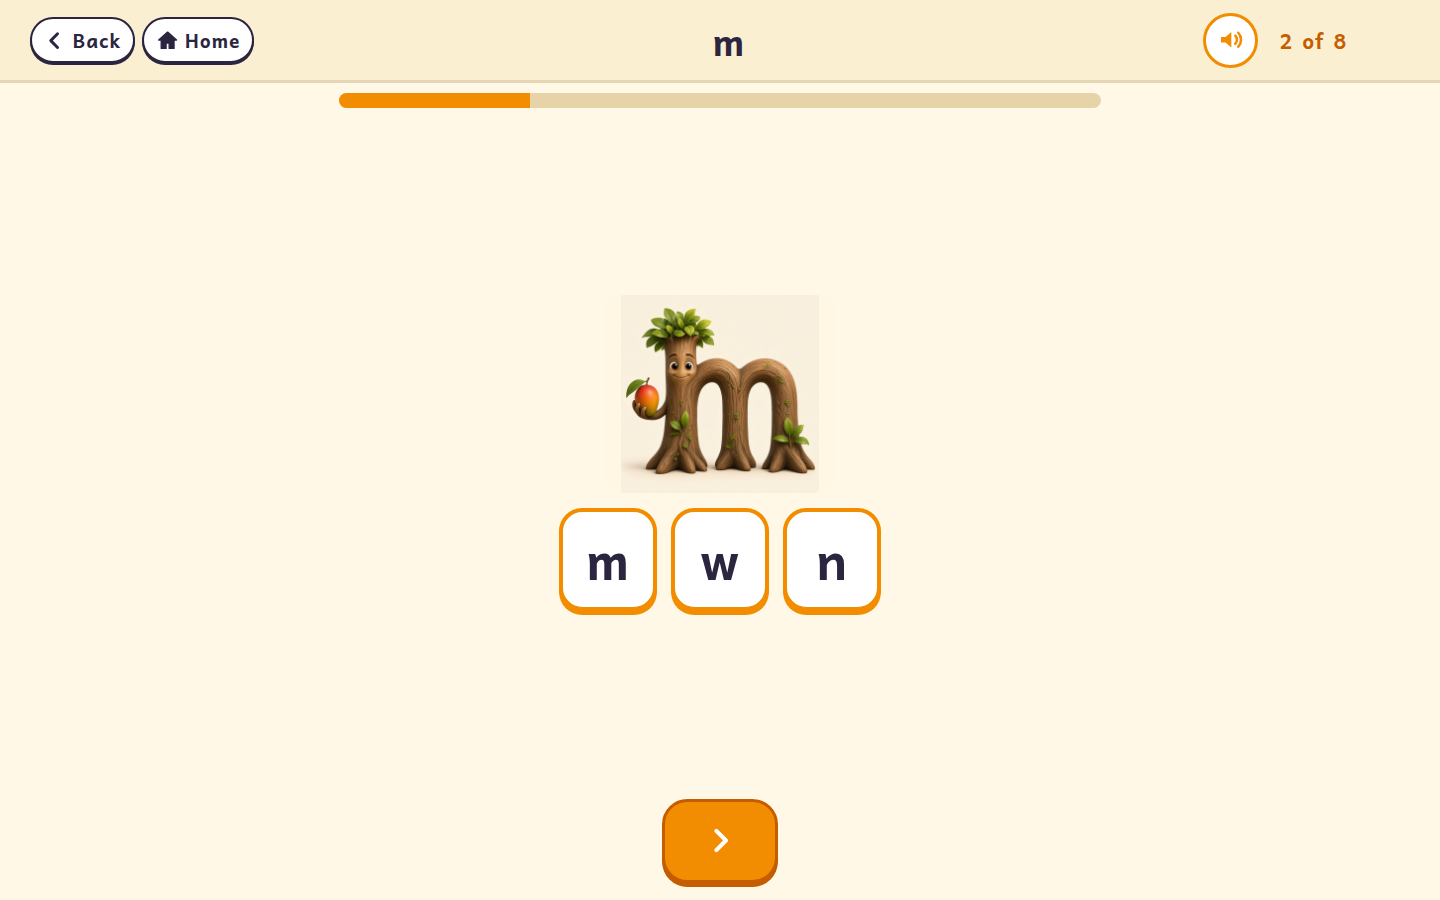
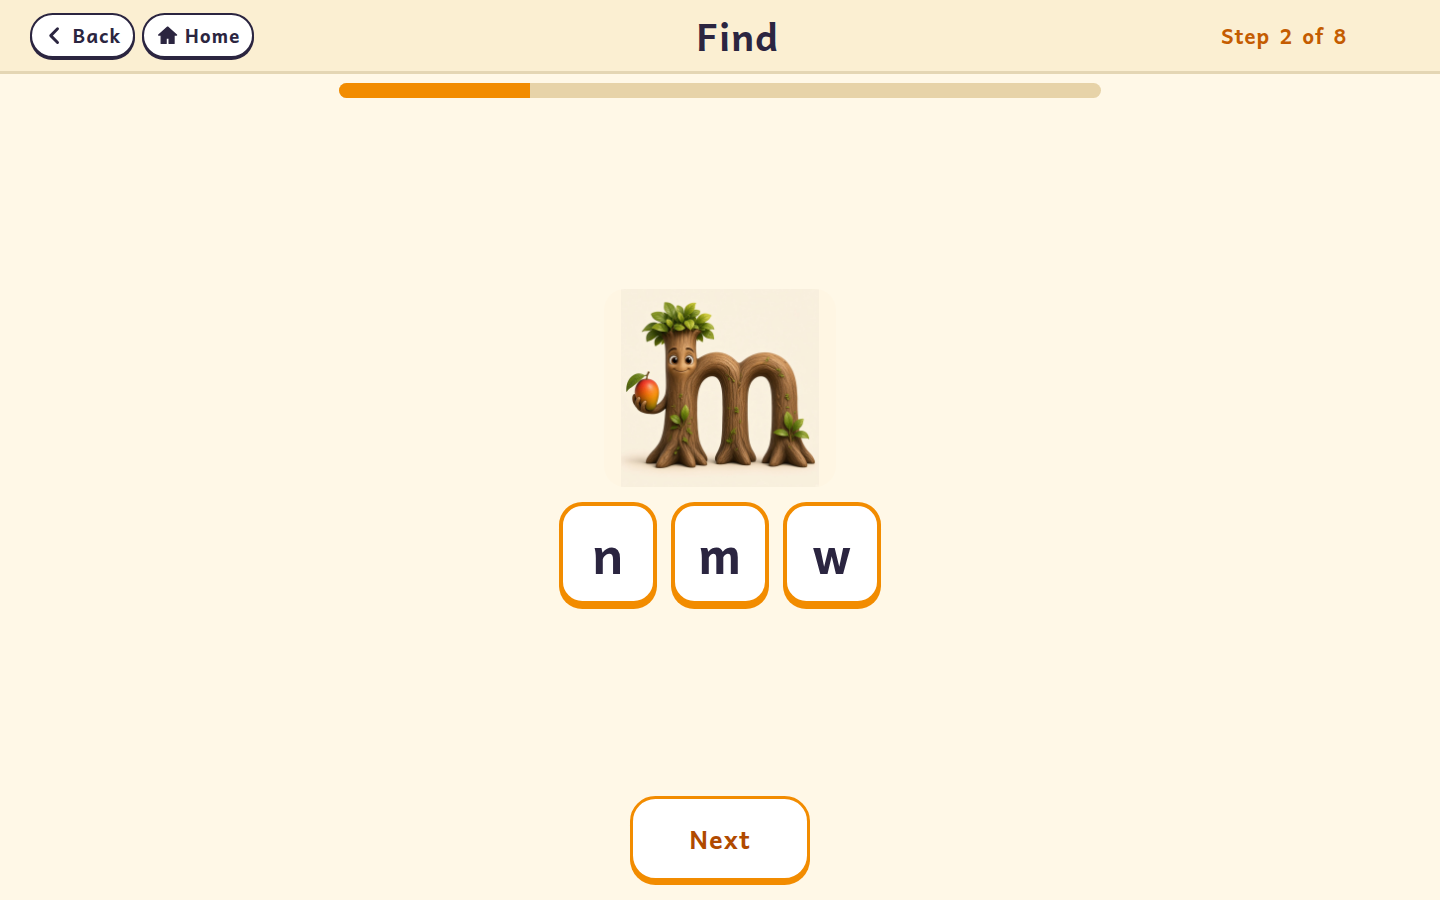
Make Foundations navigation the same on every screen.
Back and Home stay in one header. Lessons say Step X of N, use a short step name, and keep Next as the forward button. It turns orange when the step is ready.

diff --git a/js/foundation/letters.js b/js/foundation/letters.js
@@ -808,7 +808,7 @@
         h('b', { class: 'tname' }, game.title),
         game.done ? h('span', { class: 'llcardone' }, icon('check'), 'Done') : null))));
     app.append(h('div', { class: 'screen fs-team' },
-      h('header', { class: 'uA-top' },
+      h('header', { class: 'uA-top llbar' },
         IR.ui.pageNav('#/foundation/letters/' + group.id),
         h('h1', { class: 'uA-title' }, 'Games')),
       h('main', { class: 'fs-teammain' }, h('ol', { class: 'll-lessongrid ll-gamegrid' }, ...cards))));
@@ -1713,14 +1713,14 @@
     v: 'foundation/img/letters/v_vida_vine.jpg', z: 'foundation/img/letters/z_zuzu_zigzag_cloud.jpg'
   };
   const KID_STEPS = [
-    { id: 'hear', say: 'Tap the sound.' },
-    { id: 'find', say: 'Tap the letter.' },
-    { id: 'play', say: 'Pick a game.' },
-    { id: 'blend', say: 'Tap the letters.' },
-    { id: 'trace', say: 'Trace the letter.' },
-    { id: 'read', say: 'Tap a word.' },
-    { id: 'check', say: 'Tap the letter.' },
-    { id: 'done', say: 'You did it.' }
+    { id: 'hear', say: 'Tap the sound.', label: 'Hear' },
+    { id: 'find', say: 'Tap the letter.', label: 'Find' },
+    { id: 'play', say: 'Pick a game.', label: 'Play' },
+    { id: 'blend', say: 'Tap the letters.', label: 'Blend' },
+    { id: 'trace', say: 'Trace the letter.', label: 'Trace' },
+    { id: 'read', say: 'Tap a word.', label: 'Read' },
+    { id: 'check', say: 'Tap the letter.', label: 'Check' },
+    { id: 'done', say: 'You did it.', label: 'Done' }
   ];
   function letterArt(id) { return artUrl(id) || ART_FILE[id] || ''; }
   function pureSound(L) {
@@ -1821,7 +1821,8 @@
       words: [],
       foils: foilIds(id, ids),
       roundN: 4,
-      nextLabel: 'Back to the lesson',
+      lesson: true,
+      nextLabel: 'Next',
       after: '#/foundation/letters/' + group.id + '/lesson/' + id + '/play',
       onDone(gameId) {
         const map = playNote(group, id);
@@ -1892,12 +1893,13 @@
     }
     show();
   }
-  function paintPlay(stage, group, id) {
+  function paintPlay(stage, group, id, ready) {
     const played = playNote(group, id);
     const games = [{ id: 'pop', title: 'Sound Pop' }, { id: 'hunt', title: 'Letter Hunt' }];
+    const nextGame = games.filter((game) => !played[game.id])[0];
     const back = '#/foundation/letters/' + group.id + '/lesson/' + id + '/play';
     stage.append(h('div', { class: 'llkidgames' }, ...games.map((game) => h('button', {
-      class: 'tcard llkidgame' + (played[game.id] ? ' is-done' : ''),
+      class: 'tcard llkidgame' + (played[game.id] ? ' is-done' : '') + (nextGame && nextGame.id === game.id ? ' t-current' : ''),
       type: 'button',
       'aria-label': game.title,
       onclick: () => {
@@ -1906,6 +1908,7 @@
         IR.day1Play(root, game.id, lessonPack(group, id), back);
       }
     }, h('b', null, game.title), played[game.id] ? h('span', { class: 'llcardone' }, icon('check'), 'Done') : null))));
+    if (!nextGame) ready();
   }
   function paintBlend(stage, group, id, ready) {
     const words = lessonWordList(group, id);
@@ -2092,36 +2095,35 @@
     const index = KID_STEPS.indexOf(step);
     const base = '#/foundation/letters/' + group.id;
     const stage = h('main', { class: 'llkidstage' });
-    const next = h('button', { class: 'btn big next llkidnext', type: 'button', 'aria-label': 'Next' }, icon('next'));
+    const last = index >= KID_STEPS.length - 1;
+    const next = h('button', { class: 'btn big llkidnext', type: 'button', 'aria-label': last ? 'Done' : 'Next' }, last ? 'Done' : 'Next');
     function ready() { next.classList.add('ready'); }
     function go() {
       Snd.stop();
       try { speechSynthesis.cancel(); } catch (e) { /* quiet */ }
-      if (index >= KID_STEPS.length - 1) { location.hash = base; return; }
+      if (last) { location.hash = base; return; }
       location.hash = base + '/lesson/' + id + '/' + KID_STEPS[index + 1].id;
     }
     next.addEventListener('click', go);
     if (step.id === 'hear') paintHear(stage, L, ready);
     else if (step.id === 'find') paintFind(stage, group, id, ready);
-    else if (step.id === 'play') paintPlay(stage, group, id);
+    else if (step.id === 'play') paintPlay(stage, group, id, ready);
     else if (step.id === 'blend') paintBlend(stage, group, id, ready);
     else if (step.id === 'trace') paintTrace(stage, L, ready);
     else if (step.id === 'read') paintRead(stage, group, id, ready);
     else if (step.id === 'check') paintCheck(stage, group, id, ready);
     else paintCelebrate(stage, group, id);
-    const say = step.id === 'hear' ? null : h('button', { class: 'llkidhear', type: 'button', 'aria-label': 'Hear it', onclick: () => speak(step.say) }, icon('speaker'));
     app.append(h('div', { class: 'screen llkid' },
-      h('header', { class: 'uA-top' },
+      h('header', { class: 'uA-top llbar' },
         IR.ui.pageNav(base),
-        h('h1', { class: 'uA-title' }, id),
-        say,
-        h('p', { class: 'llkidprog' }, (index + 1) + ' of ' + KID_STEPS.length)),
+        h('h1', { class: 'uA-title' }, step.label),
+        h('p', { class: 'llkidprog' }, 'Step ' + (index + 1) + ' of ' + KID_STEPS.length)),
       h('div', { class: 'llkidbar', role: 'progressbar', 'aria-valuemin': 1, 'aria-valuemax': KID_STEPS.length, 'aria-valuenow': index + 1 },
         h('i', { style: 'width:' + Math.round((index + 1) / KID_STEPS.length * 100) + '%' })),
       stage,
       h('div', { class: 'llkidnav' }, next)));
     speak(step.say);
-    if (step.id === 'play' || step.id === 'done') ready();
+    if (step.id === 'done') ready();
   }
   function groupPage(app, group) {
     IR.newScreen();
@@ -2154,7 +2156,7 @@
       onclick: () => { Snd.stop(); location.hash = base + '/games'; }
     }, h('span', { class: 'tbody' }, h('b', { class: 'tname' }, 'Games'))));
     app.append(h('div', { class: 'screen fs-team' },
-      h('header', { class: 'uA-top' },
+      h('header', { class: 'uA-top llbar' },
         IR.ui.pageNav('#/foundation'),
         h('h1', { class: 'uA-title' }, 'Team ' + group.n)),
       h('main', { class: 'fs-teammain' },
@@ -2186,11 +2188,13 @@
         h('span', { class: 'tbody' },
           h('span', { class: 'thead' }, h('b', { class: 'tnum' }, 'Team ' + group.n)),
           h('span', { class: 'tname llteamlets' }, ...group.letters.map((ch) => h('span', null, ch))),
-          done ? h('span', { class: 'llcardone' }, icon('check'), 'Done') : null));
+          done ? h('span', { class: 'llcardone' }, icon('check'), 'Done') : (isNext ? h('span', { class: 'llup' }, 'Up next') : null)));
     });
-    app.append(h('div', { class: 'screen home mapscreen gridhome fs-home fs-teams' },
-      h('div', { class: 'mwrap' },
-        h('header', { class: 'hbanner' }, IR.ui.pageNav('#/home'), h('h1', null, 'Foundation Skills')),
+    app.append(h('div', { class: 'screen fs-team fs-teams fs-home' },
+      h('header', { class: 'uA-top llbar' },
+        IR.ui.pageNav('#/home'),
+        h('h1', { class: 'uA-title' }, 'Foundation Skills')),
+      h('main', { class: 'fs-teammain' },
         h('div', { class: 'bellslot' }, h('div', { class: 'bellpath' }, h('div', { class: 'bellgrid fs-teamgrid' }, ...cards))))));
     if (COVER_SRC && COVER_NOTE) { /* art stays in the program; the team cards are the page */ }
   }

diff --git a/js/foundation/day1.js b/js/foundation/day1.js
@@ -77,6 +77,7 @@
 
   function shell(title, back) {
     const scr = IR.newScreen();
+    const lesson = PACK && PACK.lesson;
     const fill = h('i');
     const bar = h('div', { class: 'pbar ll1bar', role: 'progressbar', 'aria-valuemin': 0, 'aria-valuemax': 100, 'aria-valuenow': 0 }, fill);
     const instr = h('div', { class: 'instr' });
@@ -84,17 +85,20 @@
     const topNav = IR.ui && IR.ui.pageNav
       ? IR.ui.pageNav(() => { clearWait(); location.hash = back; })
       : h('button', { class: 'xbtn', type: 'button', 'aria-label': 'Back', onclick: () => { clearWait(); Snd.stop(); location.hash = back; } }, icon('close'));
-    const screen = h('div', { class: 'screen lessonscreen u5step ll-day1' },
-      h('header', { class: 'lesson-top ll1top' },
+    const roundEl = h('p', { class: lesson ? 'llkidprog' : 'qcount llround', 'aria-live': 'polite' }, '');
+    const header = lesson
+      ? h('header', { class: 'uA-top llbar' }, topNav, h('h1', { class: 'uA-title' }, title), roundEl)
+      : h('header', { class: 'lesson-top ll1top' },
         topNav,
         h('h1', null, title),
         h('span', { class: 'll1faces' },
           h('img', { class: 'll1face', src: ZIP, alt: 'Zip' }),
-          h('img', { class: 'll1face', src: FRILL, alt: 'Frill' }))),
-      h('p', { class: 'qcount llround', 'aria-live': 'polite' }, ''),
+          h('img', { class: 'll1face', src: FRILL, alt: 'Frill' })));
+    const screen = h('div', { class: lesson ? 'screen fs-team ll-day1 ll-lessonplay' : 'screen lessonscreen u5step ll-day1' },
+      header,
+      lesson ? null : roundEl,
       instr, stage,
       h('div', { class: 'll1foot' }, bar));
-    const roundEl = screen.querySelector('.llround');
     const ctx = {
       scr: scr,
       stage: stage,
@@ -112,6 +116,7 @@
       setInstr(text) {
         instr.innerHTML = '';
         if (!text) return;
+        if (PACK && PACK.lesson) { say(text); return; }
         instr.append(speakerBtn(() => say(text), 'Hear the directions'), h('span', { class: 'itext' }, text));
         say(text);
       },
@@ -119,6 +124,11 @@
         ctx.progress(1);
         if (PACK.onDone) PACK.onDone(again);
         IR.touchStreak();
+        if (PACK && PACK.lesson && PACK.after) {
+          Snd.play(A.sfx.done);
+          location.hash = PACK.after;
+          return;
+        }
         const team = /^#\/foundation\/letters\/g(\d+)/.exec(back || '');
         const done = IR.engage.endScreen({
           title: label,
@@ -140,6 +150,7 @@
         done.classList.add('ll1end');
         const againBtn = done.querySelector('.menulink');
         if (againBtn) { againBtn.classList.remove('menulink'); againBtn.classList.add('btn', 'big', 'llagain'); }
+        if (PACK && PACK.lesson && againBtn) againBtn.remove();
         document.querySelector('#app').append(done);
         Snd.play(A.sfx.done);
       }

diff --git a/foundation/foundation.css b/foundation/foundation.css
@@ -402,7 +402,16 @@ html.teach .llist .u5name,html.teach .llplay .u5name{font-size:32px}
 .ll-lessoncard .herechip{position:absolute;left:.55rem;top:.55rem}
 .llkid{height:100dvh;max-height:100dvh;overflow:hidden;display:flex;flex-direction:column;align-items:center;background:var(--cream);font-family:Andika,sans-serif}
 .llkid .uA-top{width:100%}
-.llkidprog{margin:0;font-weight:700;color:#C45C00}
+.llbar{width:100%;box-sizing:border-box;flex-wrap:nowrap}
+.llbar .uA-title{flex:1;text-align:center;white-space:nowrap}
+.llkidprog{margin:0;flex:none;white-space:nowrap;font-weight:700;color:#C45C00}
+.llkidnext{min-width:8.5rem;justify-content:center;text-align:center;background:#fff;color:#B04A00;border:3px solid #F28C00;box-shadow:0 4px 0 #F28C00}
+.llkidnext.ready{background:#F28C00;color:#fff;box-shadow:0 0 0 4px rgba(242,140,0,.28),0 4px 0 #C45C00}
+@media (max-width:700px){
+  .llbar{padding:.4rem .5rem;gap:.35rem}
+  .llbar .uA-title{font-size:1.2rem}
+  .llkidprog{font-size:.95rem}
+}
 .llkidbar{width:min(100% - 2rem,36rem);height:.7rem;margin-top:.45rem;border-radius:1rem;background:#E7D3A8;overflow:hidden}
 .llkidbar i{display:block;height:100%;background:#F28C00}
 .llkidhear{width:2.6rem;height:2.6rem;border-radius:50%;border:3px solid #F28C00;background:#fff;color:#F28C00;display:inline-flex;align-items:center;justify-content:center;flex:none;padding:0}
@@ -429,7 +438,5 @@ html.teach .llist .u5name,html.teach .llplay .u5name{font-size:32px}
 .llkidshells i{width:1.3rem;height:1rem;border-radius:1rem 1rem .4rem .4rem;background:#E4D6B4}
 .llkidshells i.on{background:#F28C00}
 .llkiddone{margin:0;font-size:2rem;font-weight:700;color:#C45C00;text-align:center}
-.llkidnav{padding:0 0 .8rem}
-.llkidnext{min-width:5rem;justify-content:center;text-align:center;background:#F28C00;border-color:#C45C00;color:#fff;box-shadow:0 4px 0 #C45C00}
-.llkidnext.ready{box-shadow:0 0 0 4px rgba(242,140,0,.35),0 4px 0 #C45C00}
+.llkidnav{width:100%;display:flex;justify-content:center;padding:0 0 .9rem}
 .llkidcheck{display:flex;flex-direction:column;align-items:center;gap:.6rem}

diff --git a/sw.js b/sw.js
@@ -1,7 +1,7 @@
 /* Island Readers sample service worker.
    Code (HTML/JS/CSS/data) is network-first so a new version always wins; the cache is only an offline fallback.
    Media (images/audio/video) is cache-first. Install never fails because of one file. */
-const CACHE = 'ir-20261121c';
+const CACHE = 'ir-20261121d';
 const ASSETS = [
  "./",
  "./index.html",
